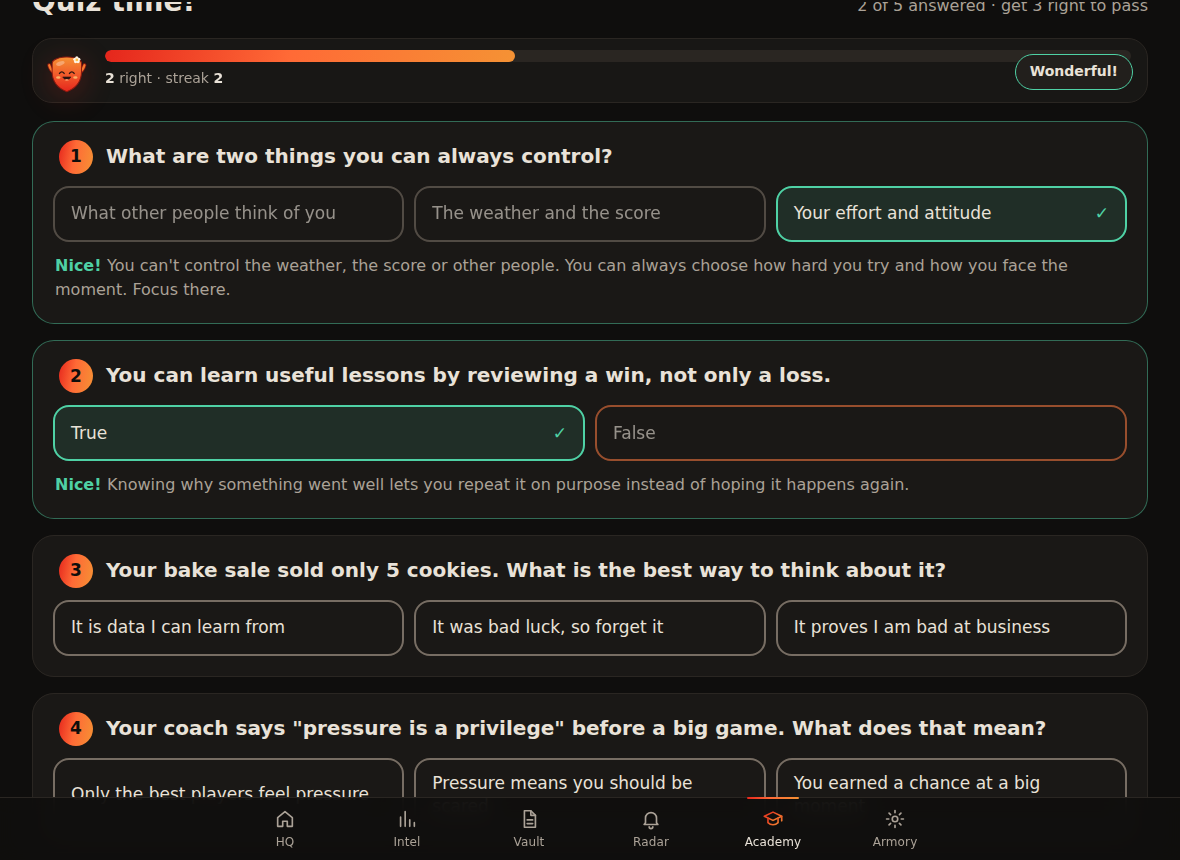
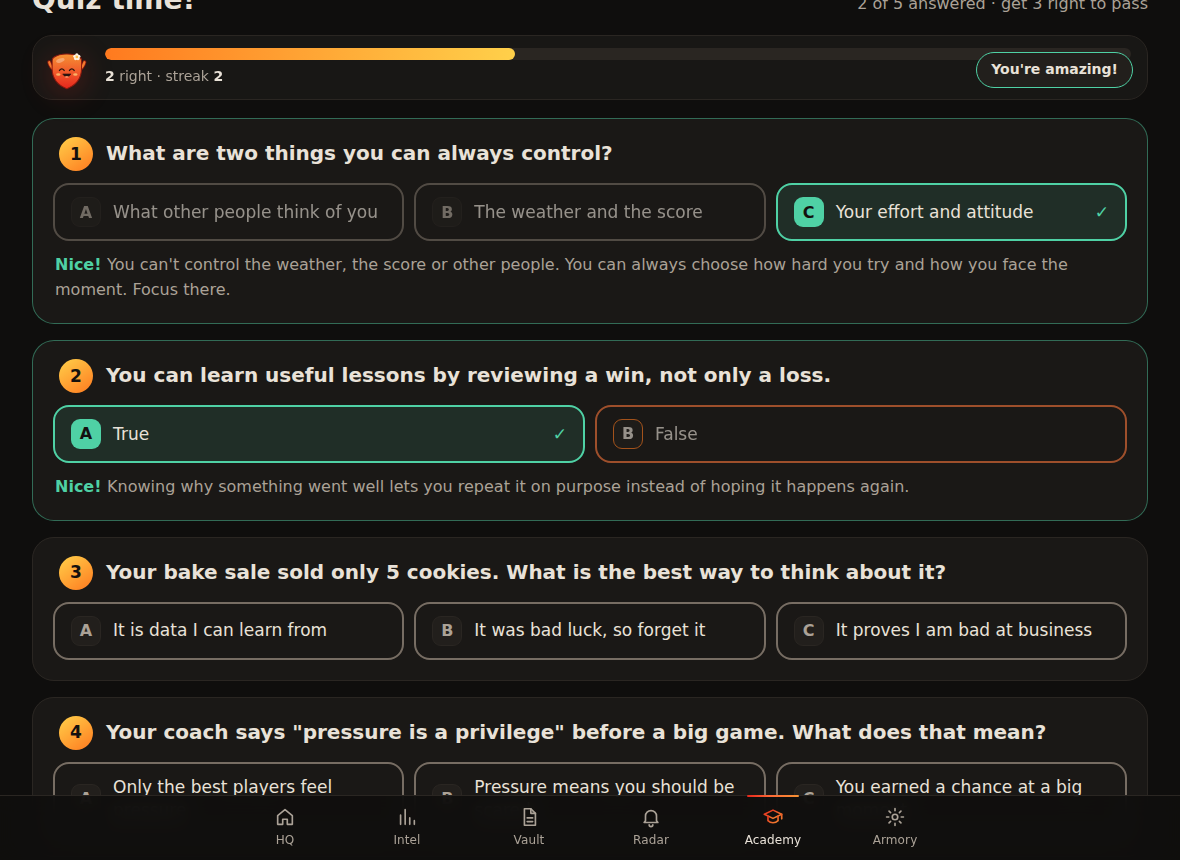
Academy: friendlier graphics with a color for each unit
Each part of the Academy gets its own color family, used only on sticker-style
world badges, progress bars, stage borders and small accents, so pages stay
calm and the business pages are unchanged.

- World badges are rounded stickers in the unit's colors, with a gold check
  when finished and a padlock when locked.
- Unit headers on the map show a small pile of the unit's world stickers and
  a progress bar.
- Lesson cards show progress dots and a soft glow behind Armo.
- Quiz answers get A/B/C letters that light up when picked and turn green or
  red when checked.
- Celebration confetti uses the world's colors with round and square pieces.

Fixes Armo turning dark on every lesson card after the first: all copies
shared one gradient id, which stops painting once the first copy is hidden.

Claude-Session: https://claude.ai/code/session_01ECj9hY49SPW8RX9VTCjATx

diff --git a/omniarmor_app/static/academy.css b/omniarmor_app/static/academy.css
@@ -306,6 +306,90 @@
 .ac-cert-rank{font-family:var(--kid);font-weight:800;font-size:clamp(24px,4vw,32px);margin:6px 0 16px;background:var(--blend);-webkit-background-clip:text;background-clip:text;color:transparent}
 .ac-cert-meta{margin:0;color:var(--faint);font-size:15px}
 
+/* Unit colors. Each part of the Academy has its own color family so kids can
+   tell worlds apart at a glance. Color lives only on badges, meters and small
+   accents; card surfaces, type and spacing stay the same calm dark theme. */
+.ac{--u1:#E5261C;--u2:#F59234;--glyph:#14110F}
+.u-foundations{--u1:#3D8BFF;--u2:#86CCFF}
+.u-leadership{--u1:#8A63FF;--u2:#C99BFF}
+.u-money{--u1:#1FAE66;--u2:#8FE29A}
+.u-growth{--u1:#FF4F86;--u2:#FFA382}
+.u-operations{--u1:#EE9310;--u2:#FFD45E}
+.u-mindset{--u1:#10A597;--u2:#6DE0CF}
+.u-trust{--u1:#5662FF;--u2:#9EAAFF}
+.u-bigpicture{--u1:#178FD0;--u2:#66D6C6}
+.u-champion{--u1:#FF7A1F;--u2:#FFD04A}
+.u-final{--u1:#F2A516;--u2:#FFE27A}
+.u-industry{--u1:#E5261C;--u2:#F59234}
+
+/* Sticker badges: a rounded square in the unit's colors with a dark glyph. */
+.ac-world-badge,.ac-world.open .ac-world-badge,.ac-world.done .ac-world-badge,.ac-level-badge{position:relative;border:0;border-radius:30%;
+  color:var(--glyph);background:linear-gradient(145deg,var(--u2),var(--u1));
+  box-shadow:inset 0 2px 0 rgba(255,255,255,.38),inset 0 -4px 0 rgba(0,0,0,.16),0 10px 20px -12px var(--u1)}
+.ac-world-badge{width:60px;height:60px}
+.ac-level-badge{width:80px;height:80px}
+.ac-world.locked .ac-world-badge,.ac-world.paid .ac-world-badge{filter:saturate(.15) brightness(.7)}
+.ac-world.started .ac-world-badge{animation:upulse 1.8s ease-in-out infinite}
+@keyframes upulse{
+  0%,100%{box-shadow:inset 0 2px 0 rgba(255,255,255,.38),inset 0 -4px 0 rgba(0,0,0,.16),0 0 0 0 color-mix(in srgb,var(--u1) 60%,transparent)}
+  50%{box-shadow:inset 0 2px 0 rgba(255,255,255,.38),inset 0 -4px 0 rgba(0,0,0,.16),0 0 0 9px color-mix(in srgb,var(--u1) 0%,transparent)}}
+.ac-sticker{position:absolute;right:-7px;bottom:-7px;display:grid;place-items:center;width:24px;height:24px;border-radius:50%;border:3px solid var(--card)}
+.ac-sticker.done{background:var(--sun);color:var(--glyph)}
+.ac-sticker.lock{background:var(--card-2);color:var(--muted)}
+.ac-world a:hover{border-color:var(--u1)}
+.ac-world .ac-meter-fill,.ac-unit-head .ac-meter-fill,.ac-hud .ac-meter-fill{background:linear-gradient(90deg,var(--u1),var(--u2))}
+
+/* Unit headers on the map: a soft wash of the unit color and a little pile of its world stickers. */
+.ac-unit-head{display:grid;grid-template-columns:auto minmax(0,1fr);align-items:center;gap:16px;margin:40px 0 14px;padding:14px 18px;border-radius:22px;
+  background:linear-gradient(100deg,color-mix(in srgb,var(--u1) 15%,transparent),transparent 75%);border:1px solid color-mix(in srgb,var(--u1) 26%,var(--line))}
+.ac-unit-head .ac-h2{margin:0;font-size:26px}
+.ac-unit-head + .ac-worlds{margin-top:0}
+.ac-unit-art{position:relative;width:82px;height:60px;flex:none}
+.ac-mini{position:absolute;display:grid;place-items:center;border-radius:30%;color:var(--glyph);background:linear-gradient(145deg,var(--u2),var(--u1));
+  box-shadow:inset 0 2px 0 rgba(255,255,255,.38),inset 0 -3px 0 rgba(0,0,0,.16),0 0 0 3px var(--card)}
+.ac-mini:nth-child(1){width:44px;height:44px;left:0;top:10px;transform:rotate(-8deg);z-index:2}
+.ac-mini:nth-child(2){width:34px;height:34px;left:40px;top:0;transform:rotate(8deg)}
+.ac-mini:nth-child(3){width:28px;height:28px;left:50px;top:31px;transform:rotate(-5deg);z-index:1}
+.ac-unit-info{display:flex;flex-direction:column;gap:6px;min-width:0}
+.ac-unit-line{display:flex;align-items:center;gap:12px}
+.ac-unit-line .ac-meter{flex:1;max-width:240px}
+.ac-unit-line .ac-unit-meta{font-size:14px;white-space:nowrap}
+
+/* World pages and levels pick up their unit color. */
+.ac-stage a:hover,.ac-stage.open a{border-color:var(--u1)}
+.ac-stage.done a{background:linear-gradient(var(--card-2),var(--card-2)) padding-box,linear-gradient(145deg,var(--u2),var(--u1)) border-box}
+.ac-stage.boss .ac-stage-num{background:linear-gradient(145deg,var(--u2),var(--u1));-webkit-background-clip:text;background-clip:text}
+.ac-qnum{background:linear-gradient(145deg,var(--u2),var(--u1));color:var(--glyph)}
+.ac-story-buddy{display:grid;place-items:center;width:100px;height:100px;border-radius:50%;
+  background:radial-gradient(circle,color-mix(in srgb,var(--u1) 26%,transparent) 0,color-mix(in srgb,var(--u1) 8%,transparent) 62%,transparent 70%)}
+.ac-step{display:flex;gap:5px}
+.ac-step i{width:16px;height:5px;border-radius:3px;background:var(--line)}
+.ac-step i.on{background:linear-gradient(90deg,var(--u1),var(--u2))}
+
+/* Answer letters, so kids can say "I picked B". */
+.ac-letter{flex:none;display:grid;place-items:center;width:30px;height:30px;margin-right:12px;border-radius:9px;
+  font-family:var(--kid);font-weight:800;font-size:16px;color:var(--muted);background:var(--card-2);border:1.5px solid var(--line);transition:background-color .15s ease,color .15s ease}
+.ac-opt:hover .ac-letter{color:var(--ink);border-color:var(--u1)}
+.ac-opt:has(input:checked) .ac-letter{color:var(--glyph);background:linear-gradient(145deg,var(--u2),var(--u1));border-color:transparent}
+.ac-opt.right .ac-letter,.ac-opt.right:has(input:checked) .ac-letter{color:var(--glyph);background:var(--mint);border-color:transparent}
+.ac-opt.wrong .ac-letter,.ac-opt.wrong:has(input:checked) .ac-letter{color:#fff;background:var(--red);border-color:transparent}
+
+/* Celebrations in the world's colors, with round and square pieces. */
+.ac-confetti i:nth-child(4n+1){background:var(--u1)}.ac-confetti i:nth-child(4n+2){background:var(--u2)}
+.ac-confetti i:nth-child(4n+3){background:var(--sun)}.ac-confetti i:nth-child(4n){background:var(--mint)}
+.ac-confetti i:nth-child(3n){width:9px;height:9px;border-radius:50%}
+.ac-confetti i:nth-child(5n){width:8px;height:8px;border-radius:2px}
+
+@media (max-width:560px){
+  .ac-unit-head{padding:12px 14px;gap:12px}
+  .ac-unit-art{width:64px;height:50px}
+  .ac-mini:nth-child(1){width:38px;height:38px;top:8px}
+  .ac-mini:nth-child(2){width:28px;height:28px;left:32px}
+  .ac-mini:nth-child(3){width:24px;height:24px;left:38px;top:27px}
+  .ac-unit-head .ac-h2{font-size:22px}
+  .ac-story-buddy{width:76px;height:76px}
+}
+
 @media print{
   .ac-cert{border-color:#000;background:#fff;color:#000}
   .ac-cert-rank,.ac-kicker{color:#000;background:none}

diff --git a/omniarmor_app/templates/academy/_art.html b/omniarmor_app/templates/academy/_art.html
@@ -5,9 +5,11 @@
    mood: happy, cheer, think, sleep or alert. prop: mug, book, juggle or zzz. #}
 {% set line = '#8E1A10' %}{% set face = '#2A1410' %}{% set limb = '#F47A2E' %}
 {% if prop == 'zzz' %}{% set mood = 'sleep' %}{% endif %}
+{# Each Armo needs its own gradient id: a page can show several, and a hidden one's gradient doesn't paint. #}
+{% set body_id = 'armoBody' ~ range(100000, 1000000)|random %}
 <svg class="armo armo-{{ mood }}{% if prop != 'none' %} armo-prop-{{ prop }}{% endif %}" viewBox="-16 -26 160 160" width="{{ size }}" height="{{ size }}" aria-hidden="true">
   <defs>
-    <linearGradient id="armoBody" x1="0" x2="0" y1="0" y2="1">
+    <linearGradient id="{{ body_id }}" x1="0" x2="0" y1="0" y2="1">
       <stop offset="0" stop-color="#F59234"/><stop offset=".55" stop-color="#F0562A"/><stop offset="1" stop-color="#E5261C"/>
     </linearGradient>
   </defs>
@@ -33,7 +35,7 @@
     <path class="armo-arm" d="{{ d }}" stroke="{{ limb }}" stroke-width="7.5" fill="none" stroke-linecap="round"/>
   {% endfor %}
   <path d="M60 8 C80 8 97 14 105 20 C108.5 22.5 110 26 110 31 V58 C110 92 88 115 60 126 C32 115 10 92 10 58 V31 C10 26 11.5 22.5 15 20 C23 14 40 8 60 8 Z"
-        fill="url(#armoBody)" stroke="{{ line }}" stroke-width="3.5" stroke-linejoin="round"/>
+        fill="url(#{{ body_id }})" stroke="{{ line }}" stroke-width="3.5" stroke-linejoin="round"/>
   <ellipse cx="38" cy="30" rx="15" ry="7" transform="rotate(-18 38 30)" fill="#FFFFFF" opacity=".3"/>
   <ellipse cx="31" cy="78" rx="7.5" ry="4.5" fill="#FFD27A" opacity=".75"/>
   <ellipse cx="89" cy="78" rx="7.5" ry="4.5" fill="#FFD27A" opacity=".75"/>
@@ -312,6 +314,17 @@
   <path d="M16 8 H32 V20 C32 25 28 29 24 29 C20 29 16 25 16 20 Z"/><path d="M16 12 H9 C9 18 12 21 16 21 M32 12 H39 C39 18 36 21 32 21"/><path d="M24 29 V36"/><path d="M16 40 H32 L30 36 H18 Z"/>
 {% endif %}
 </svg>
+{%- endmacro %}
+
+{% macro hue(w) -%}
+{# The color family of a world: its unit for topic worlds, otherwise its kind. #}
+u-{{ w.unit if w.kind == 'topic' and w.unit else w.kind }}
+{%- endmacro %}
+
+{% macro sticker(state) -%}
+{# A small corner sticker on a world badge: a gold check when finished, a padlock when locked. #}
+{% if state == 'done' %}<span class="ac-sticker done" aria-hidden="true"><svg viewBox="0 0 16 16" width="13" height="13"><path d="M3.5 8.5 L6.5 11.5 L12.5 5" fill="none" stroke="currentColor" stroke-width="2.6" stroke-linecap="round" stroke-linejoin="round"/></svg></span>
+{%- elif state in ('locked', 'paid') %}<span class="ac-sticker lock" aria-hidden="true"><svg viewBox="0 0 16 16" width="12" height="12"><rect x="3" y="7" width="10" height="7.5" rx="1.6" fill="currentColor"/><path d="M5.3 7 V5.2 C5.3 3.6 6.5 2.5 8 2.5 C9.5 2.5 10.7 3.6 10.7 5.2 V7" fill="none" stroke="currentColor" stroke-width="1.8"/></svg></span>{% endif %}
 {%- endmacro %}
 
 {% macro star(filled=true, size=22) -%}

diff --git a/omniarmor_app/templates/academy/map.html b/omniarmor_app/templates/academy/map.html
@@ -1,5 +1,5 @@
 {% extends "base.html" %}
-{% from "academy/_art.html" import armo, avatar, emblem, level_icon, star %}
+{% from "academy/_art.html" import armo, avatar, emblem, hue, level_icon, star, sticker %}
 {% block title %}{{ summary.learner.nickname }}'s adventure{% endblock %}
 {% block head %}
 <link rel="stylesheet" href="{{ academy_font }}">
@@ -9,11 +9,11 @@
 {% set w = card.world %}
 {% set state = 'paid' if card.paid else ('done' if card.done == card.stages else ('open' if card.open else 'locked')) %}
 {% set clickable = card.open and not card.paid %}
-<li class="ac-world {{ state }}{{ ' started' if card.done and card.done < card.stages else '' }}">
+<li class="ac-world {{ state }} {{ hue(w) }}{{ ' started' if card.done and card.done < card.stages else '' }}">
   {% if clickable %}<a href="{{ url_for('academy.world_page', learner_id=learner_id, world_number=w.number) }}">
   {% elif card.paid and not g.kid %}<a href="{{ url_for('academy.plan_page') }}">
   {% else %}<span aria-disabled="true">{% endif %}
-    <span class="ac-world-badge">{{ level_icon(w.icon, 34) }}</span>
+    <span class="ac-world-badge">{{ level_icon(w.icon, 34) }}{{ sticker(state) }}</span>
     <span class="ac-world-text">
       <span class="ac-world-num">{% if w.kind == 'topic' %}World {{ number }}{% elif w.kind == 'final' %}Boss world{% else %}Rule Quest{% endif %}{% if card.paid %} · Academy plan{% elif not card.open %} · locked{% endif %}</span>
       <span class="ac-world-title">{{ w.title }}</span>
@@ -75,7 +75,16 @@
 
   {% set ns = namespace(n=0) %}
   {% for unit in units %}
-    <h2 class="ac-h2 ac-unit">{{ unit.name }} <span class="muted ac-unit-meta">{{ unit.done }}/{{ "{:,}".format(unit.stages) }}</span></h2>
+    <header class="ac-unit-head u-{{ unit.key }}">
+      <span class="ac-unit-art" aria-hidden="true">{% for c in unit.cards[:3] %}<span class="ac-mini">{{ level_icon(c.world.icon, [24, 19, 16][loop.index0]) }}</span>{% endfor %}</span>
+      <div class="ac-unit-info">
+        <h2 class="ac-h2 ac-unit">{{ unit.name }}</h2>
+        <div class="ac-unit-line">
+          <span class="ac-meter" role="img" aria-label="{{ unit.done }} of {{ unit.stages }} stages done"><span class="ac-meter-fill" style="width: {{ [100 * unit.done / unit.stages, 2 if unit.done else 0]|max|round(1) }}%"></span></span>
+          <span class="muted ac-unit-meta">{{ unit.done }}/{{ "{:,}".format(unit.stages) }} stages</span>
+        </div>
+      </div>
+    </header>
     <ol class="ac-worlds">
       {% for card in unit.cards %}{% set ns.n = ns.n + 1 %}{{ world_card(card, lid, ns.n) }}{% endfor %}
     </ol>

diff --git a/omniarmor_app/templates/academy/level.html b/omniarmor_app/templates/academy/level.html
@@ -1,5 +1,5 @@
 {% extends "base.html" %}
-{% from "academy/_art.html" import armo, level_icon %}
+{% from "academy/_art.html" import armo, hue, level_icon %}
 {% block title %}{{ world.title }}, stage {{ stage }}{% endblock %}
 {% block head %}
 <link rel="stylesheet" href="{{ academy_font }}">
@@ -8,7 +8,7 @@
 {% endblock %}
 {% block content %}
 {% set buddy = armo_personality(learner.armo, 'sweet') %}
-<div class="ac">
+<div class="ac {{ hue(world) }}">
   <p class="ac-crumb"><a href="{{ url_for('academy.world_page', learner_id=learner.id, world_number=world.number) }}">← {{ world.title }}</a></p>
   <header class="ac-level-head">
     <span class="ac-level-badge">{{ level_icon(world.icon, 44) }}</span>
@@ -21,12 +21,13 @@
   <section class="ac-story" aria-label="Lesson" data-story>
     {% for title, text in cards %}
       <article class="ac-story-card" data-card>
-        {{ armo(72, 'happy' if loop.index is odd else 'think', buddy.accessory) }}
+        <span class="ac-story-buddy">{{ armo(72, 'happy' if loop.index is odd else 'think', buddy.accessory) }}</span>
         <div class="ac-bubble">
           <h2>{{ title }}</h2>
           <p>{{ text }}</p>
         </div>
-        {% if loop.length > 1 %}<p class="ac-step">{{ loop.index }} / {{ loop.length }}</p>{% endif %}
+        {% set card_no, card_count = loop.index, loop.length %}
+        {% if card_count > 1 %}<p class="ac-step" aria-label="Card {{ card_no }} of {{ card_count }}">{% for i in range(card_count) %}<i{% if i < card_no %} class="on"{% endif %}></i>{% endfor %}</p>{% endif %}
       </article>
     {% endfor %}
   </section>

diff --git a/omniarmor_app/templates/academy/result.html b/omniarmor_app/templates/academy/result.html
@@ -1,5 +1,5 @@
 {% extends "base.html" %}
-{% from "academy/_art.html" import armo, avatar, stars %}
+{% from "academy/_art.html" import armo, avatar, hue, stars %}
 {% block title %}{{ world.title }}, stage {{ stage }} results{% endblock %}
 {% block head %}
 <link rel="stylesheet" href="{{ academy_font }}">
@@ -7,7 +7,7 @@
 {% endblock %}
 {% block content %}
 {% set buddy = armo_personality(learner.armo, 'sweet') %}
-<div class="ac">
+<div class="ac {{ hue(world) }}">
   <section class="ac-result {{ 'win' if passed else 'retry' }}" aria-live="polite">
     {% if passed %}<div class="ac-confetti" aria-hidden="true">{% for i in range(18) %}<i></i>{% endfor %}</div>{% endif %}
     {{ armo(120, 'cheer' if passed else 'think', buddy.accessory) }}

diff --git a/omniarmor_app/templates/academy/world.html b/omniarmor_app/templates/academy/world.html
@@ -1,5 +1,5 @@
 {% extends "base.html" %}
-{% from "academy/_art.html" import armo, level_icon, stars %}
+{% from "academy/_art.html" import armo, hue, level_icon, stars %}
 {% block title %}{{ world.title }}{% endblock %}
 {% block head %}
 <link rel="stylesheet" href="{{ academy_font }}">
@@ -7,7 +7,7 @@
 {% endblock %}
 {% block content %}
 {% set buddy = armo_personality(learner.armo, 'sweet') %}
-<div class="ac">
+<div class="ac {{ hue(world) }}">
   <p class="ac-crumb"><a href="{{ url_for('academy.level_map', learner_id=learner.id) }}">← {{ learner.nickname }}'s map</a></p>
   <header class="ac-level-head">
     <span class="ac-level-badge">{{ level_icon(world.icon, 44) }}</span>

diff --git a/omniarmor_app/templates/academy/_quiz.html b/omniarmor_app/templates/academy/_quiz.html
@@ -25,6 +25,7 @@
           {% for opt in q.options %}
             <label class="ac-opt{% if q.kind == 'light' %} ac-light-{{ loop.index0 }}{% endif %}">
               <input type="radio" name="q{{ qi }}" value="{{ loop.index0 }}" required>
+              {% if q.kind != 'light' %}<span class="ac-letter" aria-hidden="true">{{ "ABCDEF"[loop.index0] }}</span>{% endif %}
               <span>{{ opt }}</span>
             </label>
           {% endfor %}
